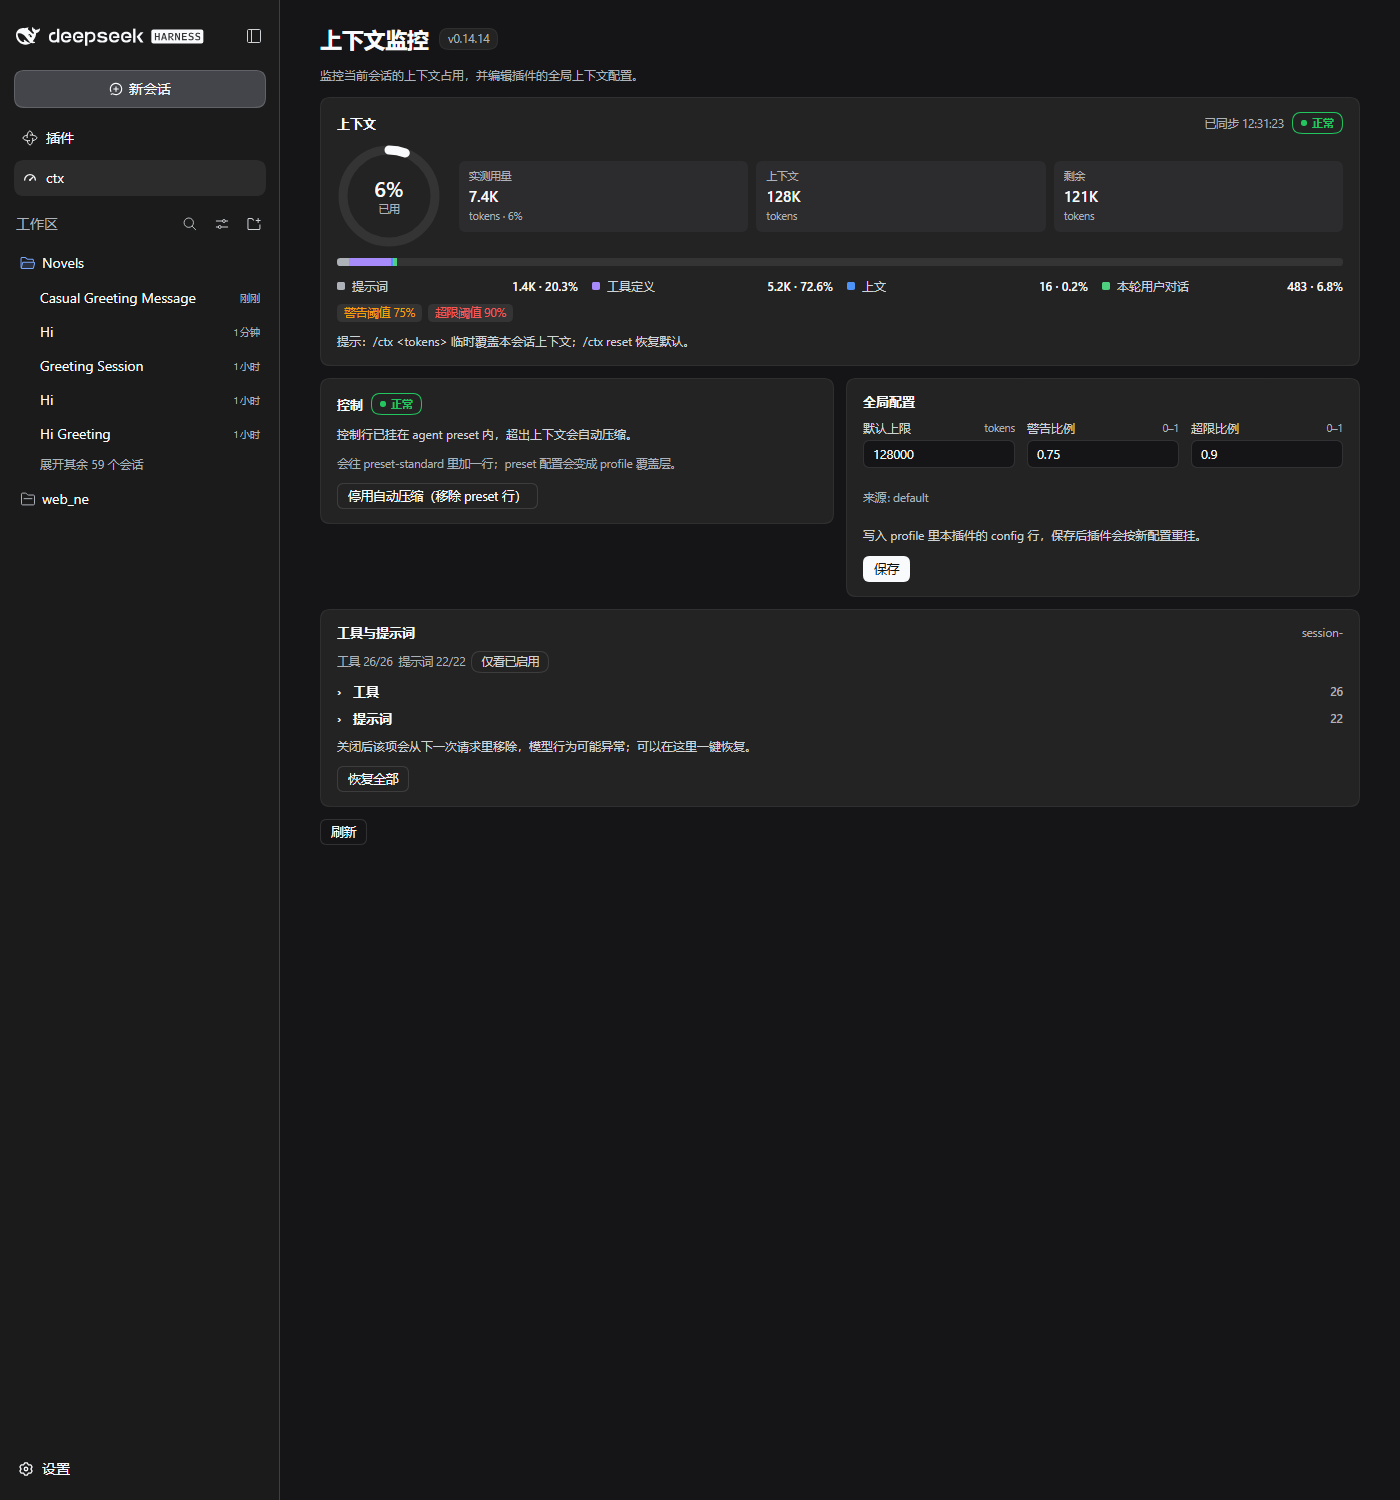
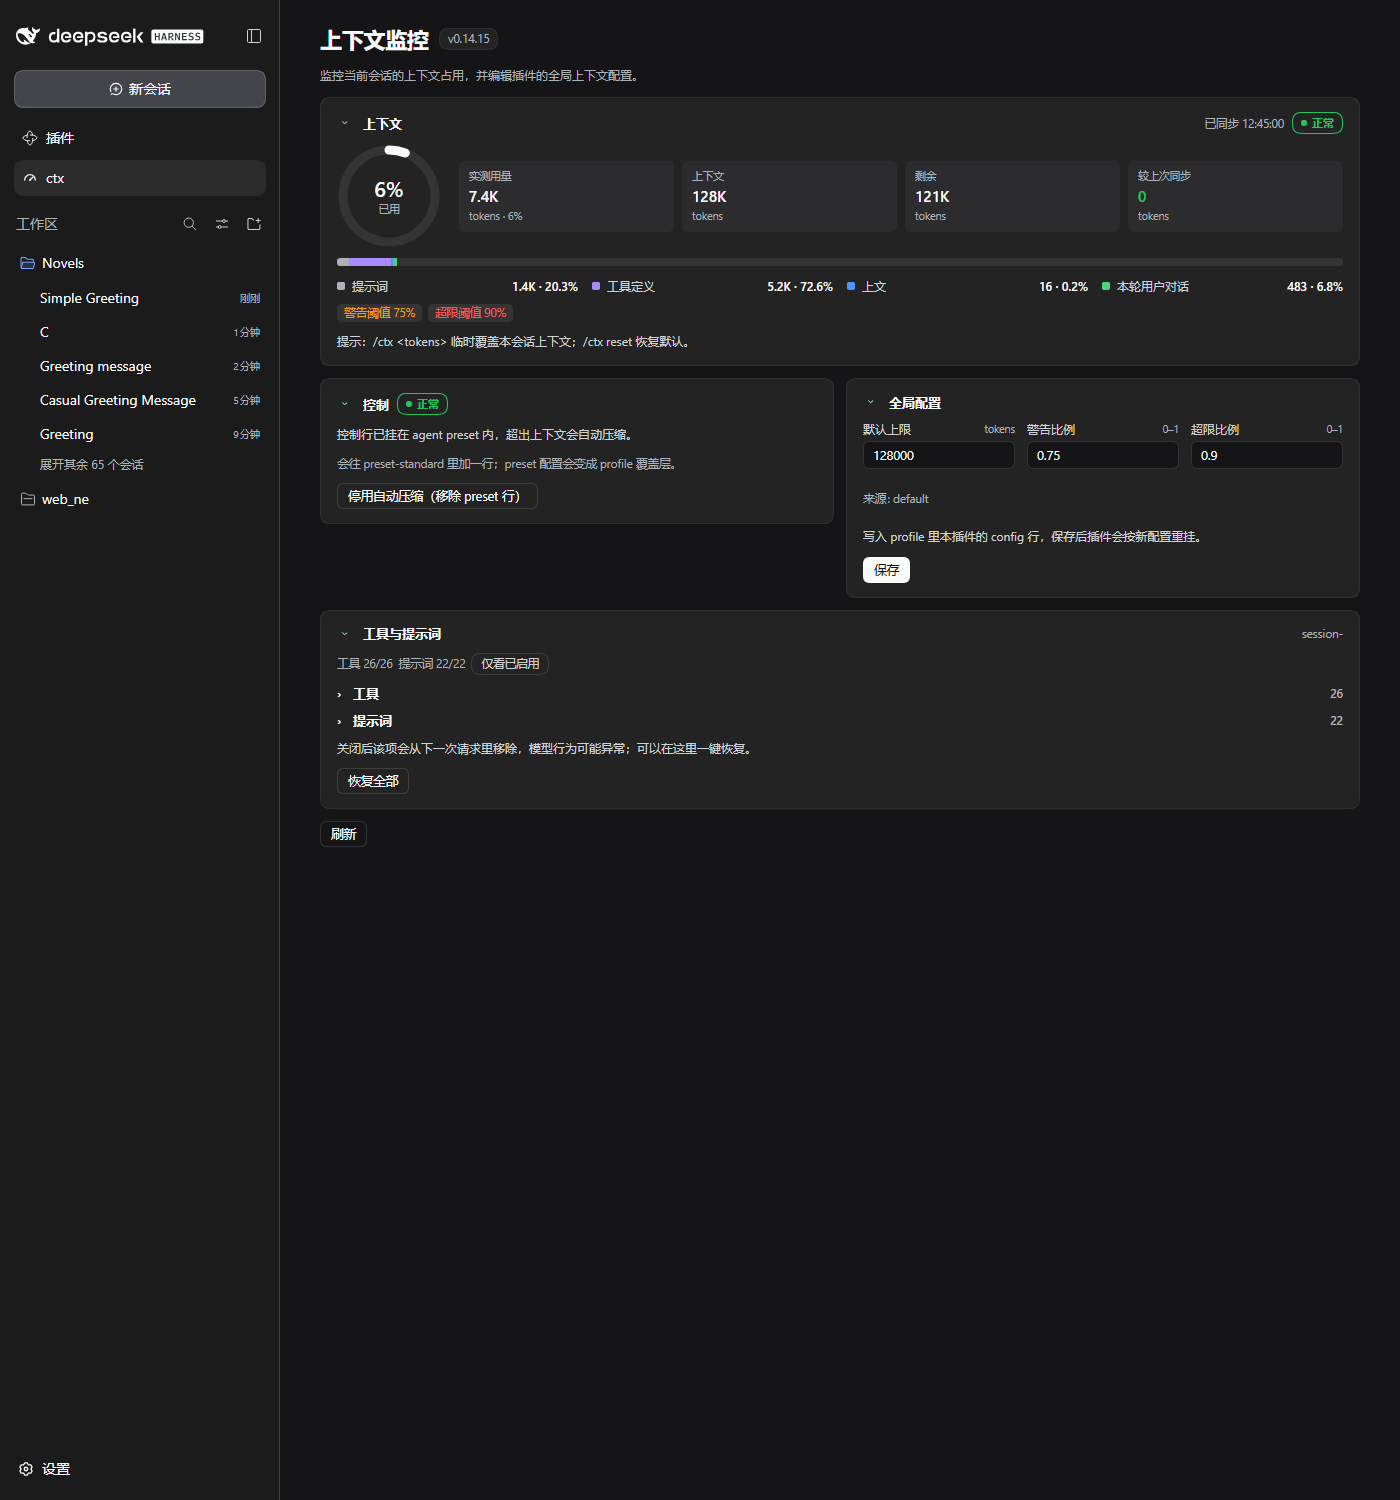
feat(ui): P2 polish - collapsible cards with persisted state, reduced-motion, exact tooltips, delta KPI; light/600px verification (0.14.15)

diff --git a/plugin-skeleton/client.js b/plugin-skeleton/client.js
@@ -45,6 +45,9 @@ window.__ModuleLoader__.load({
       recent: 'Recent /ctx measurements',
       loading: 'Loading…',
       refresh: 'Refresh',
+      collapse: 'Collapse',
+      expand: 'Expand',
+      lastDelta: 'Since last sync',
       retry: 'Retry',
       error: 'Could not load status',
       hint: 'Tip: /ctx <tokens> temporarily overrides this session; /ctx reset restores the default.',
@@ -145,6 +148,9 @@ window.__ModuleLoader__.load({
       recent: '最近的 /ctx 测量',
       loading: '加载中…',
       refresh: '刷新',
+      collapse: '收起',
+      expand: '展开',
+      lastDelta: '较上次同步',
       retry: '重试',
       error: '读取状态失败',
       hint: '提示：/ctx <tokens> 临时覆盖本会话上下文；/ctx reset 恢复默认。',
@@ -449,6 +455,7 @@ window.__ModuleLoader__.load({
       cardFill: { flex: '1 1 320px', minWidth: 'min(260px, 100%)' },
       cardHead: { display: 'flex', alignItems: 'center', gap: '8px' },
       cardTitle: { margin: 0, fontSize: '13px', fontWeight: 600, color: 'var(--dsw-alias-label-primary)' },
+      cardToggle: { display: 'inline-flex', alignItems: 'center', justifyContent: 'center', width: '18px', height: '18px', flex: 'none', border: 'none', background: 'transparent', color: 'var(--dsw-alias-label-tertiary)', padding: 0, borderRadius: '4px', cursor: 'pointer', fontSize: '14px', lineHeight: 1 },
       cardSub: { marginLeft: 'auto', fontSize: '11.5px', color: 'var(--dsw-alias-label-tertiary)', fontVariantNumeric: 'tabular-nums' },
       chipRow: { display: 'flex', flexWrap: 'wrap', gap: '6px' },
       chip: { display: 'inline-flex', alignItems: 'center', gap: '5px', borderRadius: '6px', background: 'var(--dsw-alias-interactive-bg-hover)', padding: '1px 6px', fontSize: '12px', color: 'var(--dsw-alias-label-secondary)', minWidth: 0 },
@@ -548,7 +555,7 @@ window.__ModuleLoader__.load({
       const circumference = 2 * Math.PI * radius
       return h(
         'div',
-        { style: styles.ringWrap, 'data-ctx-ring': String(Math.round(percent)) },
+        { style: styles.ringWrap, 'data-ctx-ring': String(Math.round(percent)), title: props.title },
         h(
           'svg',
           { viewBox: '0 0 104 104', width: 104, height: 104, style: styles.ringSvg, 'aria-hidden': true },
@@ -625,18 +632,61 @@ window.__ModuleLoader__.load({
       )
     }
 
+    // ── 卡片折叠状态（记忆到 localStorage，按卡片 id 存） ──────────────────
+    const COLLAPSED_STORAGE_KEY = 'ctx-mon-and-con:collapsed:v1'
+
+    function readCollapsedMap() {
+      try {
+        if (typeof window === 'undefined' || !window.localStorage) return {}
+        const raw = window.localStorage.getItem(COLLAPSED_STORAGE_KEY)
+        const parsed = raw ? JSON.parse(raw) : null
+        return parsed && typeof parsed === 'object' ? parsed : {}
+      } catch {
+        return {}
+      }
+    }
+
     function Card(props) {
+      const cardId = typeof props.id === 'string' ? props.id : null
+      const [collapsed, setCollapsed] = react.useState(() => Boolean(cardId && readCollapsedMap()[cardId]))
+      const t = props.t
+      const toggle = () => {
+        const next = !collapsed
+        setCollapsed(next)
+        if (!cardId) return
+        try {
+          if (typeof window === 'undefined' || !window.localStorage) return
+          const map = readCollapsedMap()
+          map[cardId] = next
+          window.localStorage.setItem(COLLAPSED_STORAGE_KEY, JSON.stringify(map))
+        } catch {}
+      }
       return h(
         'div',
-        { style: { ...styles.card, ...(props.style || {}) } },
+        { style: { ...styles.card, ...(props.style || {}) }, 'data-ctx-card': cardId || undefined, 'data-ctx-collapsed': collapsed ? '1' : '0' },
         h(
           'div',
           { style: styles.cardHead },
+          cardId && typeof t === 'function'
+            ? h(
+                'button',
+                {
+                  type: 'button',
+                  style: styles.cardToggle,
+                  title: collapsed ? t('expand') : t('collapse'),
+                  'aria-label': collapsed ? t('expand') : t('collapse'),
+                  'aria-expanded': !collapsed,
+                  'data-ctx-card-toggle': cardId,
+                  onClick: toggle,
+                },
+                h('span', { style: { display: 'inline-block', transform: collapsed ? 'none' : 'rotate(90deg)', transition: 'transform .15s ease' } }, '›'),
+              )
+            : null,
           h('h3', { style: styles.cardTitle }, props.title),
           props.sub !== undefined ? h('span', { style: styles.cardSub }, props.sub) : null,
           props.action !== undefined ? props.action : null,
         ),
-        props.children,
+        collapsed ? null : props.children,
       )
     }
 
@@ -892,19 +942,44 @@ window.__ModuleLoader__.load({
       const breakdown = (live && live.breakdown) || (liveUsed === null && latest ? latest.breakdown : null)
       const categories = breakdownCategories(t, breakdown)
       const sub = live ? `${t('synced')} ${formatTime(props.liveAt)}` : latest ? formatTime(latest.at) : undefined
+      // 增量：同会话内这次刷新相对上次刷新的变化（切换会话时重新计）。
+      const previousRef = react.useRef({ sessionId: null, used: null })
+      const sessionKey = live && live.sessionId ? live.sessionId : latest && latest.id ? latest.id : null
+      const delta = used !== null && previousRef.current.used !== null && previousRef.current.sessionId === sessionKey ? used - previousRef.current.used : null
+      react.useEffect(() => {
+        if (used === null) return
+        previousRef.current = { sessionId: sessionKey, used }
+      }, [sessionKey, used])
+      const exact = (value) => (typeof value === 'number' ? `${formatTokens(value)} ${t('tokens')}` : '—')
       return h(
         Card,
-        { title: t('budget'), sub, action: h(StatusBadge, { t, state }) },
+        { title: t('budget'), sub, action: h(StatusBadge, { t, state }), id: 'overview', t },
         h(
           'div',
           { style: styles.heroBody },
-          h(BigRing, { percent: ratio === null ? 0 : ratio * 100, color, label: t('ratio') }),
+          h(BigRing, { percent: ratio === null ? 0 : ratio * 100, color, label: t('ratio'), title: used === null ? '—' : `${formatTokens(used)} / ${formatTokens(budgetTokens)} ${t('tokens')}` }),
           h(
             'div',
             { style: styles.kpiGrid },
-            h('div', { style: styles.kpi }, h('span', { style: styles.kpiLabel }, t('used')), h('span', { style: styles.kpiValue }, compactTokens(used)), h('span', { style: styles.kpiSub }, `${t('tokens')} · ${formatPercent(ratio, 0)}`)),
-            h('div', { style: styles.kpi }, h('span', { style: styles.kpiLabel }, t('budget')), h('span', { style: styles.kpiValue }, compactTokens(budgetTokens)), h('span', { style: styles.kpiSub }, t('tokens'))),
-            h('div', { style: styles.kpi }, h('span', { style: styles.kpiLabel }, t('remaining')), h('span', { style: styles.kpiValue }, compactTokens(remaining)), h('span', { style: styles.kpiSub }, t('tokens'))),
+            h('div', { style: styles.kpi, title: exact(used) }, h('span', { style: styles.kpiLabel }, t('used')), h('span', { style: styles.kpiValue }, compactTokens(used)), h('span', { style: styles.kpiSub }, `${t('tokens')} · ${formatPercent(ratio, 0)}`)),
+            h('div', { style: styles.kpi, title: exact(budgetTokens) }, h('span', { style: styles.kpiLabel }, t('budget')), h('span', { style: styles.kpiValue }, compactTokens(budgetTokens)), h('span', { style: styles.kpiSub }, t('tokens'))),
+            h('div', { style: styles.kpi, title: exact(remaining) }, h('span', { style: styles.kpiLabel }, t('remaining')), h('span', { style: styles.kpiValue }, compactTokens(remaining)), h('span', { style: styles.kpiSub }, t('tokens'))),
+            h(
+              'div',
+              { style: styles.kpi, title: delta === null ? '—' : exact(delta) },
+              h('span', { style: styles.kpiLabel }, t('lastDelta')),
+              h(
+                'span',
+                {
+                  style: {
+                    ...styles.kpiValue,
+                    color: delta === null ? 'var(--dsw-alias-label-tertiary)' : delta > 0 ? 'var(--dsw-alias-state-warn-primary)' : 'var(--dsw-alias-state-success-primary)',
+                  },
+                },
+                delta === null ? '—' : `${delta > 0 ? '+' : ''}${compactTokens(delta)}`,
+              ),
+              h('span', { style: styles.kpiSub }, t('tokens')),
+            ),
           ),
         ),
         h(SegmentedBar, { usedRatio: ratio ?? 0, categories }),
@@ -1259,7 +1334,7 @@ window.__ModuleLoader__.load({
       if (loading) {
         return h(
           Card,
-          { title: t('inventoryTitle') },
+          { title: t('inventoryTitle'), id: 'inventory', t },
           h(
             'div',
             { style: styles.skeletonStack, 'data-ctx-inventory-loading': '1' },
@@ -1272,7 +1347,7 @@ window.__ModuleLoader__.load({
       if (loadError) {
         return h(
           Card,
-          { title: t('inventoryTitle') },
+          { title: t('inventoryTitle'), id: 'inventory', t },
           h(
             'div',
             { style: styles.emptyState, 'data-ctx-inventory-error': '1' },
@@ -1283,7 +1358,7 @@ window.__ModuleLoader__.load({
       }
       return h(
         Card,
-        { title: t('inventoryTitle'), sub: data.sessionId ? String(data.sessionId).slice(0, 8) : undefined },
+        { title: t('inventoryTitle'), sub: data.sessionId ? String(data.sessionId).slice(0, 8) : undefined, id: 'inventory', t },
         empty
           ? h(
               'div',
@@ -1390,6 +1465,8 @@ window.__ModuleLoader__.load({
         {
           title: t('control'),
           style: styles.cardFill,
+          id: 'control',
+          t,
           action: control.active
             ? h(StatusBadge, { t, state: 'ok' })
             : h('span', { style: { ...styles.badge, color: 'var(--dsw-alias-label-tertiary)', borderColor: 'var(--dsw-alias-border-l2)' } }, t('controlOff')),
@@ -1485,7 +1562,7 @@ window.__ModuleLoader__.load({
       const source = typeof budget.source === 'string' && budget.source !== '' ? budget.source : null
       return h(
         Card,
-        { title: t('configTitle'), style: styles.cardFill, sub: editable ? undefined : t('configUnavailable') },
+        { title: t('configTitle'), style: styles.cardFill, sub: editable ? undefined : t('configUnavailable'), id: 'config', t },
         editable
           ? h(
               'div',
@@ -1651,6 +1728,23 @@ window.__ModuleLoader__.load({
     /** @param {unknown} ctx - 浏览器 cordis 上下文（slots / locale） */
     function apply(ctx) {
       ctx.effect(() => ctx.locale.register(NS, { en, zh }), 'ctx-mon-and-con: dictionaries')
+
+      // prefers-reduced-motion：关闭本插件面板 / dock 的过渡与动画（不改宿主样式）。
+      ctx.effect(() => {
+        if (typeof document === 'undefined' || !document.head) return () => {}
+        const styleId = 'ctx-mon-and-con-reduced-motion'
+        if (document.getElementById(styleId)) return () => {}
+        const style = document.createElement('style')
+        style.id = styleId
+        style.textContent =
+          '@media (prefers-reduced-motion: reduce){[data-ctx-panel],[data-ctx-panel] *,[data-ctx-dock],[data-ctx-dock] *{transition-duration:0.01ms !important;animation-duration:0.01ms !important;animation-iteration-count:1 !important;scroll-behavior:auto !important}}'
+        document.head.appendChild(style)
+        return () => {
+          try {
+            style.remove()
+          } catch {}
+        }
+      }, 'ctx-mon-and-con: reduced motion')
 
       // 事件驱动刷新：监听会话区域的 DOM 变化（流式输出、消息更新、切换会话），2s 节流。
       // 忽略本插件自己的 UI（dock/面板），避免自触发循环。

diff --git a/plugin-skeleton/index.js b/plugin-skeleton/index.js
@@ -49,7 +49,7 @@ import {
 export const inject = ['commands', 'tokenMeter']
 
 /** 与 package.json 的 version 保持一致（只用于状态接口的自述）。 */
-const PLUGIN_VERSION = '0.14.14'
+const PLUGIN_VERSION = '0.14.15'
 
 /** 浏览器半侧 client.js 拉的只读状态接口；两处路径必须一致。 */
 const STATUS_PATH = '/api/ctx-mon-and-con/status'

diff --git a/plugin-skeleton/docs/EVIDENCE.md b/plugin-skeleton/docs/EVIDENCE.md
@@ -1,7 +1,7 @@
 # 验收证据（ctx-mon-and-con）
 
 - 仓库：<https://github.com/qiangweiliu/dsh-context>（插件目录 `plugin-skeleton/`）
-- 版本：`0.14.14`（本文件随 manifest 兼容性声明一起提交）
+- 版本：`0.14.15`（本文件随 manifest 兼容性声明一起提交）
 - 采集日期：2026-10-18
 - 证据层级说明：`verified` = 本次固定源码上实际执行并记录结果；`partial` = 只在明确边界内验证；`unknown` = 未取得证据。**这些证据不构成独立安全审计，也不替代商城的专项审阅。**
 
@@ -34,7 +34,7 @@ ok   - bundles 含该包: true
 ok   - dependencies 含该包: true
 ok   - node_modules/ctx-mon-and-con 存在（link -> /home/wu/dsh-plugins/ctx-mon-and-con）
 ok   - --dump-config 出现该行（5 处）
-安装完成：ctx-mon-and-con@0.14.14 已进入 profile web
+安装完成：ctx-mon-and-con@0.14.15 已进入 profile web
 ```
 
 ## E3. 启动与 UI（verified，web profile）
@@ -45,7 +45,7 @@ ok   - --dump-config 出现该行（5 处）
 GET /api/ctx-mon-and-con/status
 {
   "plugin": "ctx-mon-and-con",
-  "version": "0.14.14",
+  "version": "0.14.15",
   "budget": { "tokens": 128000, "warnAt": 0.75, "errorAt": 0.9, "source": "default" },
   "control": { "active": true, "mode": "idle", "presetMounted": true, "lastError": null }
 }
@@ -56,9 +56,9 @@ GET /api/ctx-mon-and-con/status
 ```json
 {
   "ok": true,
-  "version": "v0.14.14",
+  "version": "v0.14.15",
   "title": "上下文监控",
-  "chipTitleAttr": "插件版本: 0.14.14",
+  "chipTitleAttr": "插件版本: 0.14.15",
   "panelPresent": true,
   "errors": []
 }
@@ -84,9 +84,9 @@ ok   - --dump-config 不再出现该行
 
 ## E5. Windows 桌面真实 profile（partial）
 
-- 安装组合已注册：`profiles/desktop/package.json` 的 `dependencies` 含 `"ctx-mon-and-con": "link:C:/Users/40410/Desktop/context/plugin-skeleton"`，`dsh.profile.bundles` 含 `ctx-mon-and-con`；已安装副本版本 `0.14.14`。
+- 安装组合已注册：`profiles/desktop/package.json` 的 `dependencies` 含 `"ctx-mon-and-con": "link:C:/Users/40410/Desktop/context/plugin-skeleton"`，`dsh.profile.bundles` 含 `ctx-mon-and-con`；已安装副本版本 `0.14.15`。
 - 桌面版不允许 CLI 管理该 profile（`profile "desktop" is managed exclusively by the Electron application`），由 Electron 启动时加载；历史运行实例已验证：status 路由 HTTP 200、`version` 与已安装副本一致、`control.active: true`、`presetMounted: true`，并真实执行过压缩（一次记录：before `215229` → after `80639`，`lastError: null`）。
-- **当前运行实例是旧版本（0.14.11），0.14.14 需重启桌面版后生效**；重启后应出现「上下文监控 / v0.14.14」与 `data-ctx-version` 标签。
+- **当前运行实例是旧版本（0.14.11），0.14.15 需重启桌面版后生效**；重启后应出现「上下文监控 / v0.14.15」与 `data-ctx-version` 标签。
 
 ## E6. 权限静态审计（partial）
 
@@ -106,13 +106,14 @@ npm 运行依赖：无；生命周期脚本：无
 
 ## E7. UI 优化验证（partial，2026-10-18）
 
-- 版本：`0.14.14`（WSL profile web 安装后由 headless Edge + CDP 截图验证）。
+- 版本：`0.14.15`（WSL profile web 安装后由 headless Edge + CDP 截图验证）。
 - 修复：概览卡/工具卡不再被纵向 `flex-basis` 撑到 ~320px 高；空态/加载态改为高度自适应；阈值颜色变量改为真实存在的 `--dsw-alias-state-warn-primary`。
 - 概览卡改为环形图 + 已用/上限/剩余 KPI + 8px 分段条 + 右对齐图例；顶部状态 badge（正常/警告/超限）。
 - 工具与提示词：≤6 项自动展开、>6 项默认折叠；「仅看已启用」筛选；加载 skeleton / 空态虚线框 / 错误重试。
 - Dock 弹层底部新增「打开完整面板」，点击跳到侧栏 ctx 页（弹层内已验证按钮存在并可点）。
-- 截图：`docs/ui/current-panel-session.png`（1400px，6% 真实用量）、`docs/ui/current-panel-empty.png`、`docs/ui/current-dock-popover.png`、`docs/ui/current-panel-900.png`（900px 宽度）。
-- 未覆盖：浅色主题截图、600px 宽度、Firefox/Safari；桌面运行实例需重启后才加载 `0.14.14`（当前仍是 0.14.11）。
+- P2：卡片头折叠按钮 + `localStorage` 记忆，刷新后 `data-ctx-collapsed="1"`、`stored={"inventory":true}`（CDP 实测）；`prefers-reduced-motion: reduce` 模拟下注入的 `<style>` 生效，环形图 `transition-duration` 变为 `1e-05s`；KPI/图例/环形图均带精确 token `title`；新增「较上次同步」增量 KPI（同会话两次刷新的差值）。
+- 截图：`docs/ui/current-panel-session.png`（1400px 暗色，6% 真实用量）、`docs/ui/current-panel-empty.png`、`docs/ui/current-panel-light.png`（浅色主题：移除 body `data-ds-dark-theme` 与内联 `--dsw-*` 后截图）、`docs/ui/current-panel-900.png`、`docs/ui/current-panel-600.png`（600px 窄屏：hero 自动换行、卡片单列）、`docs/ui/current-panel-collapsed.png`、`docs/ui/current-dock-popover.png`。
+- 未覆盖：Firefox/Safari（本机未安装 Firefox，WebKit 不可用）；浅色主题用「切换 `data-ds-theme-source` + 移除 body 暗色 token」模拟，未走 app 设置里的主题偏好切换；桌面运行实例需重启后才加载 `0.14.15`（当前仍是 0.14.11）。
 
 ## 已知限制（unknown）
 

diff --git a/plugin-skeleton/docs/UI-PROPOSAL.md b/plugin-skeleton/docs/UI-PROPOSAL.md
@@ -1,6 +1,6 @@
 # UI 优化提案（同类插件调研 + 改动方案）
 
-> 状态：**P0/P1 已实施**，版本 `ctx-mon-and-con@0.14.14`；用户已确认：概览卡用环形图、内容多时默认折叠、Dock 加「打开完整面板」、只做「仅看已启用」筛选（搜索后置）。
+> 状态：**P0/P1 已实施**，版本 `ctx-mon-and-con@0.14.15`；用户已确认：概览卡用环形图、内容多时默认折叠、Dock 加「打开完整面板」、只做「仅看已启用」筛选（搜索后置）。
 >
 > 调研日期：2026-10-18；参考版本：`ctx-mon-and-con@0.14.13`
 
@@ -88,7 +88,7 @@ dsh-context 的客户端样式大量使用 DSH 主题变量与过渡变量（统
 3. Dock 弹层底部加「**打开完整面板**」按钮，点击跳到侧栏 ctx 页。
 4. 列表只做「**仅看已启用**」筛选，搜索后置。
 
-## 6. 实施记录（v0.14.14）
+## 6. 实施记录（v0.14.15）
 
 | 改动 | 文件位置 |
 | --- | --- |
@@ -100,14 +100,25 @@ dsh-context 的客户端样式大量使用 DSH 主题变量与过渡变量（统
 | 工具与提示词：加载 skeleton、错误态（重试）、空态虚线框；「仅看已启用」筛选 + 启用/总数；≤6 项自动展开 | `InventoryCard` / `useLive` |
 | Dock：警告/超限状态进 tooltip，弹层底部加「打开完整面板」 | `CtxDock` / `openCtxPanelPage` |
 | 修正 `--dsw-alias-state-warning-primary` → 实际存在的 `--dsw-alias-state-warn-primary`（原先阈值颜色不生效） | `ratioColor` |
+| P2：卡片头加折叠按钮，折叠状态记忆到 `localStorage`（key `ctx-mon-and-con:collapsed:v1`），刷新后保持 | `Card` / `COLLAPSED_STORAGE_KEY` |
+| P2：`prefers-reduced-motion: reduce` 时关闭面板与 dock 的过渡/动画（注入独立 `<style>`，不改宿主样式） | `apply`（reduced motion effect） |
+| P2：精确 token 数 tooltip（环形图、KPI、图例、dock 触发器） | `BigRing` / `OverviewCard` / `LegendGrid` |
+| P2：概览新增「较上次同步」增量 KPI（同会话内两次刷新的差值，切换会话时重置） | `OverviewCard` |
 
 实施后截图：
 
-- 有真实用量：`docs/ui/current-panel-session.png`（本文件下方）
+- 有真实用量（1400px，暗色）：`docs/ui/current-panel-session.png`
 - 空会话：`docs/ui/current-panel-empty.png`
+- 浅色主题：`docs/ui/current-panel-light.png`
+- 900px / 600px 窄屏：`docs/ui/current-panel-900.png`、`docs/ui/current-panel-600.png`
+- 卡片折叠（刷新后仍保持）：`docs/ui/current-panel-collapsed.png`
 - Dock 弹层：`docs/ui/current-dock-popover.png`
 
 ![实施后的 ctx 面板（有真实用量）](ui/current-panel-session.png)
+
+![浅色主题](ui/current-panel-light.png)
+
+![卡片折叠（刷新后保持）](ui/current-panel-collapsed.png)
 
 ![实施后的空态](ui/current-panel-empty.png)
 
